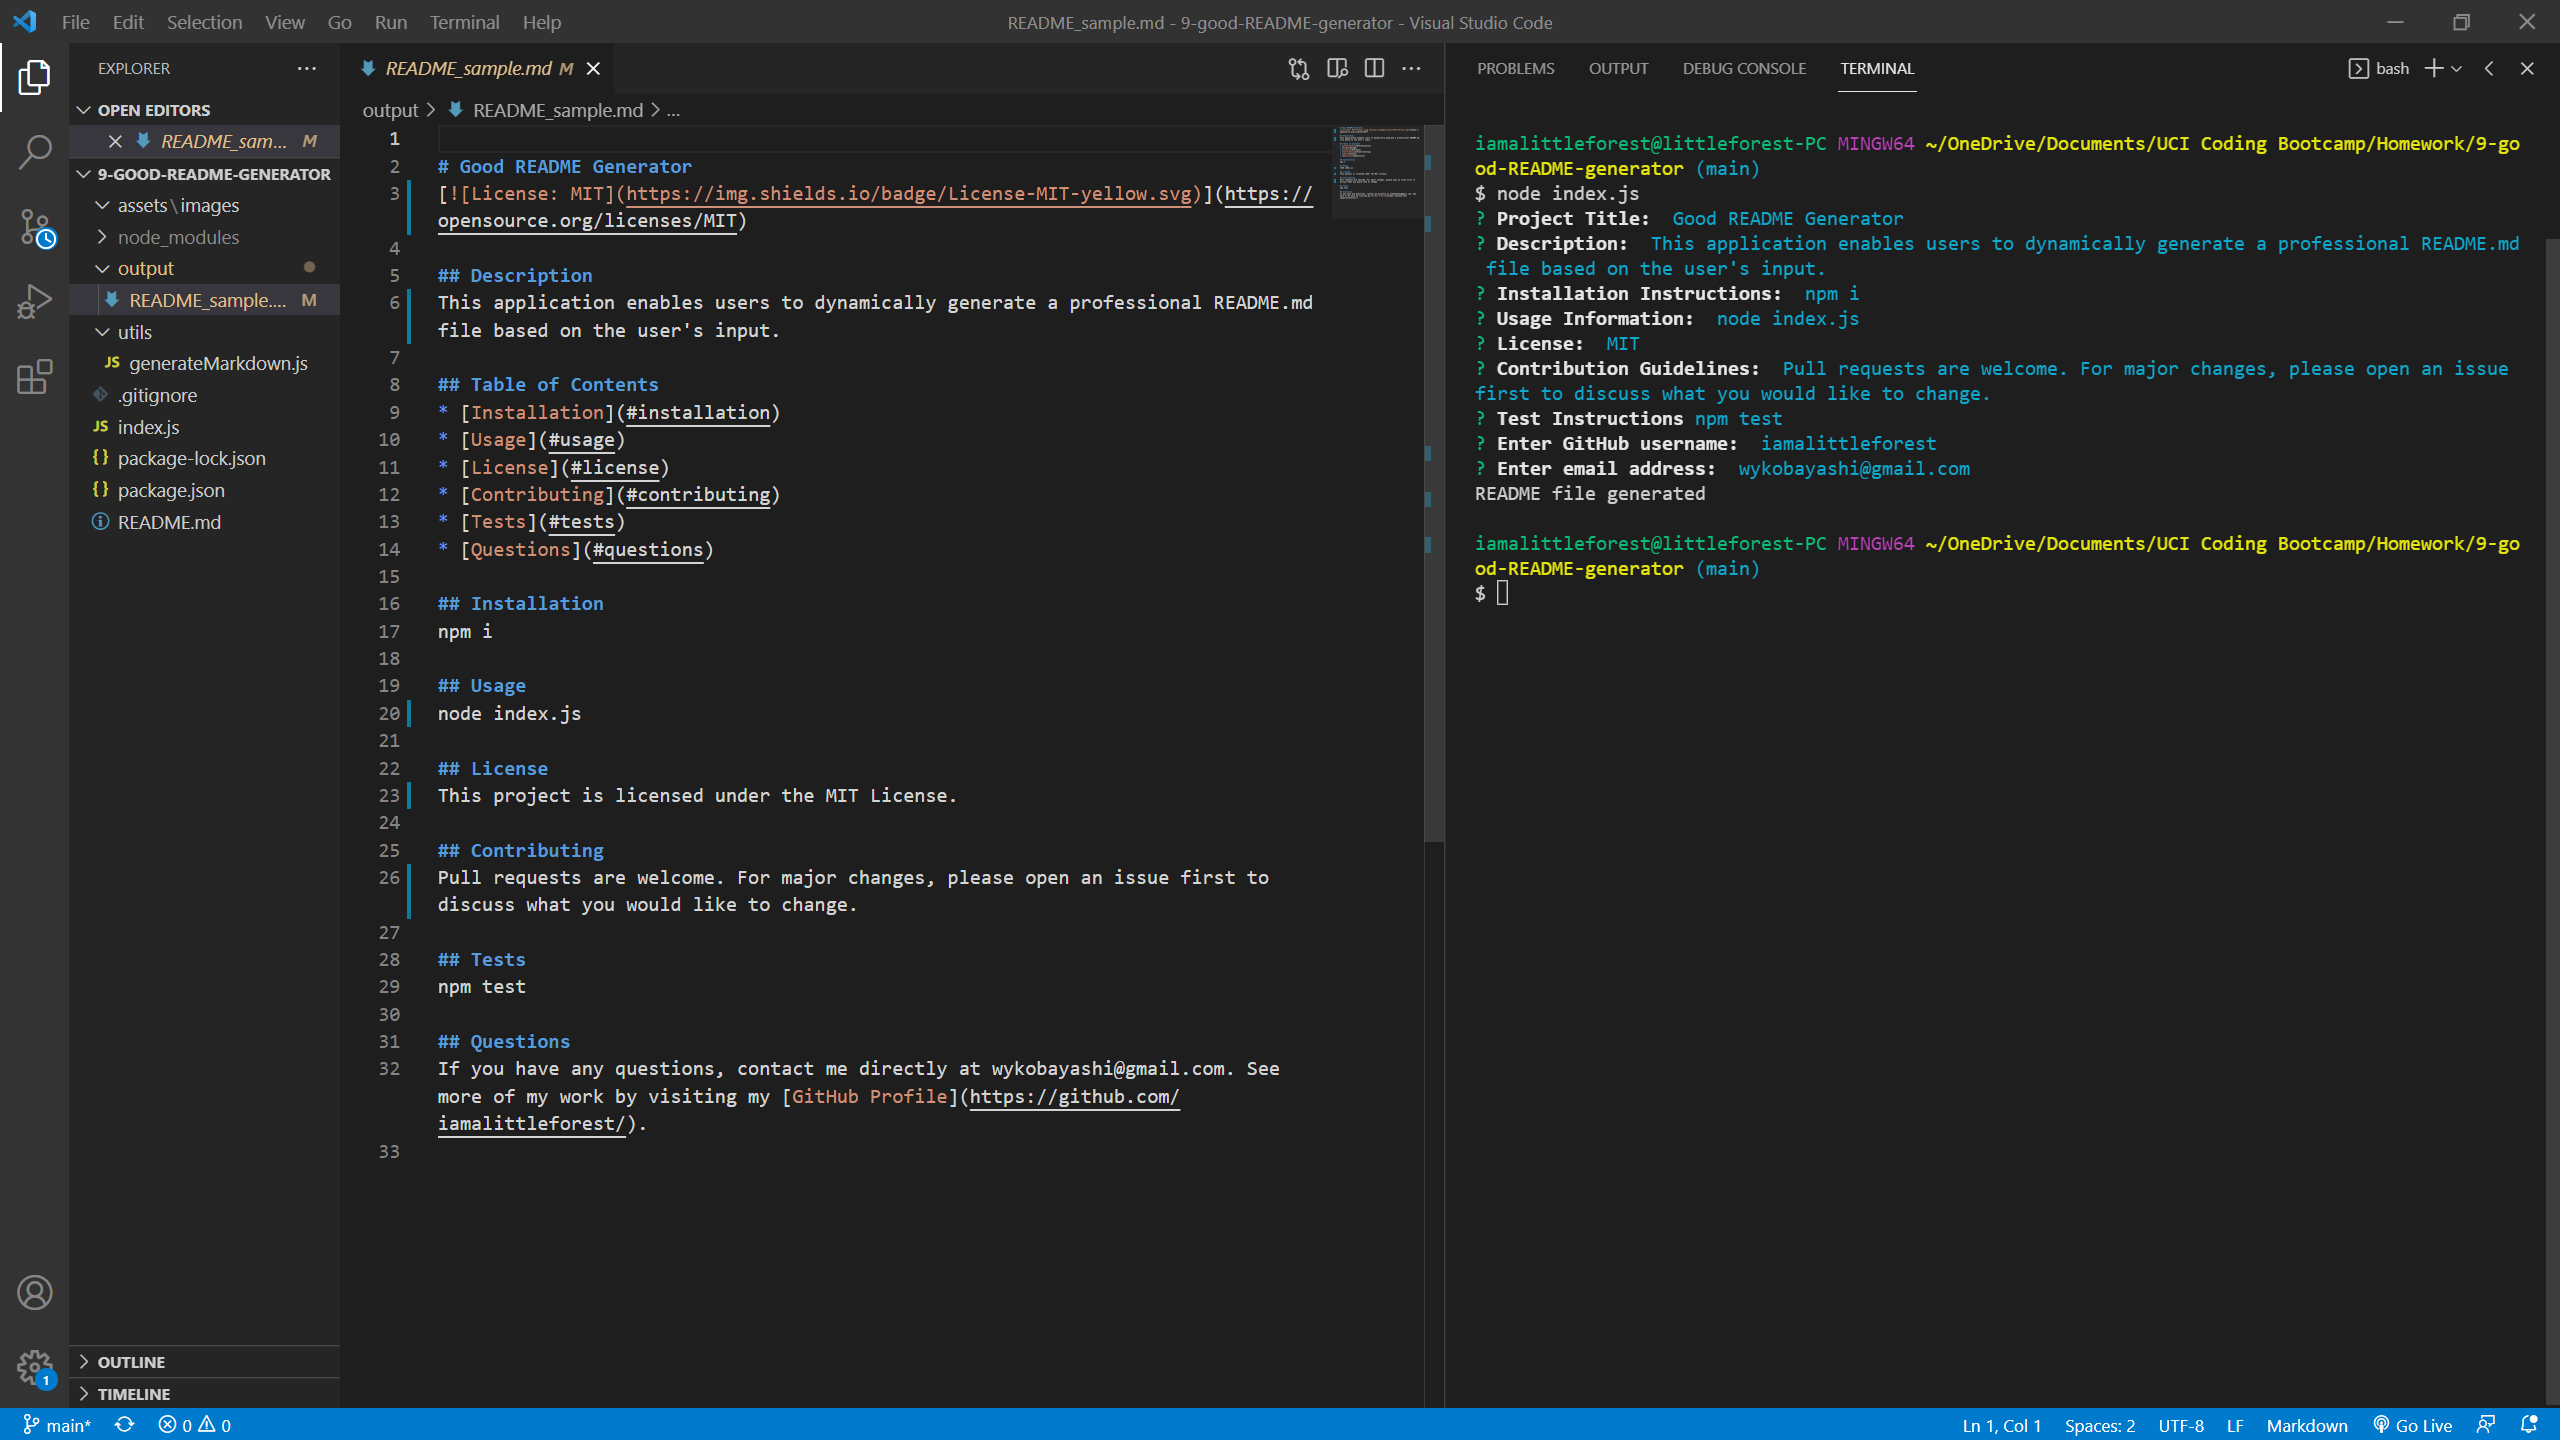
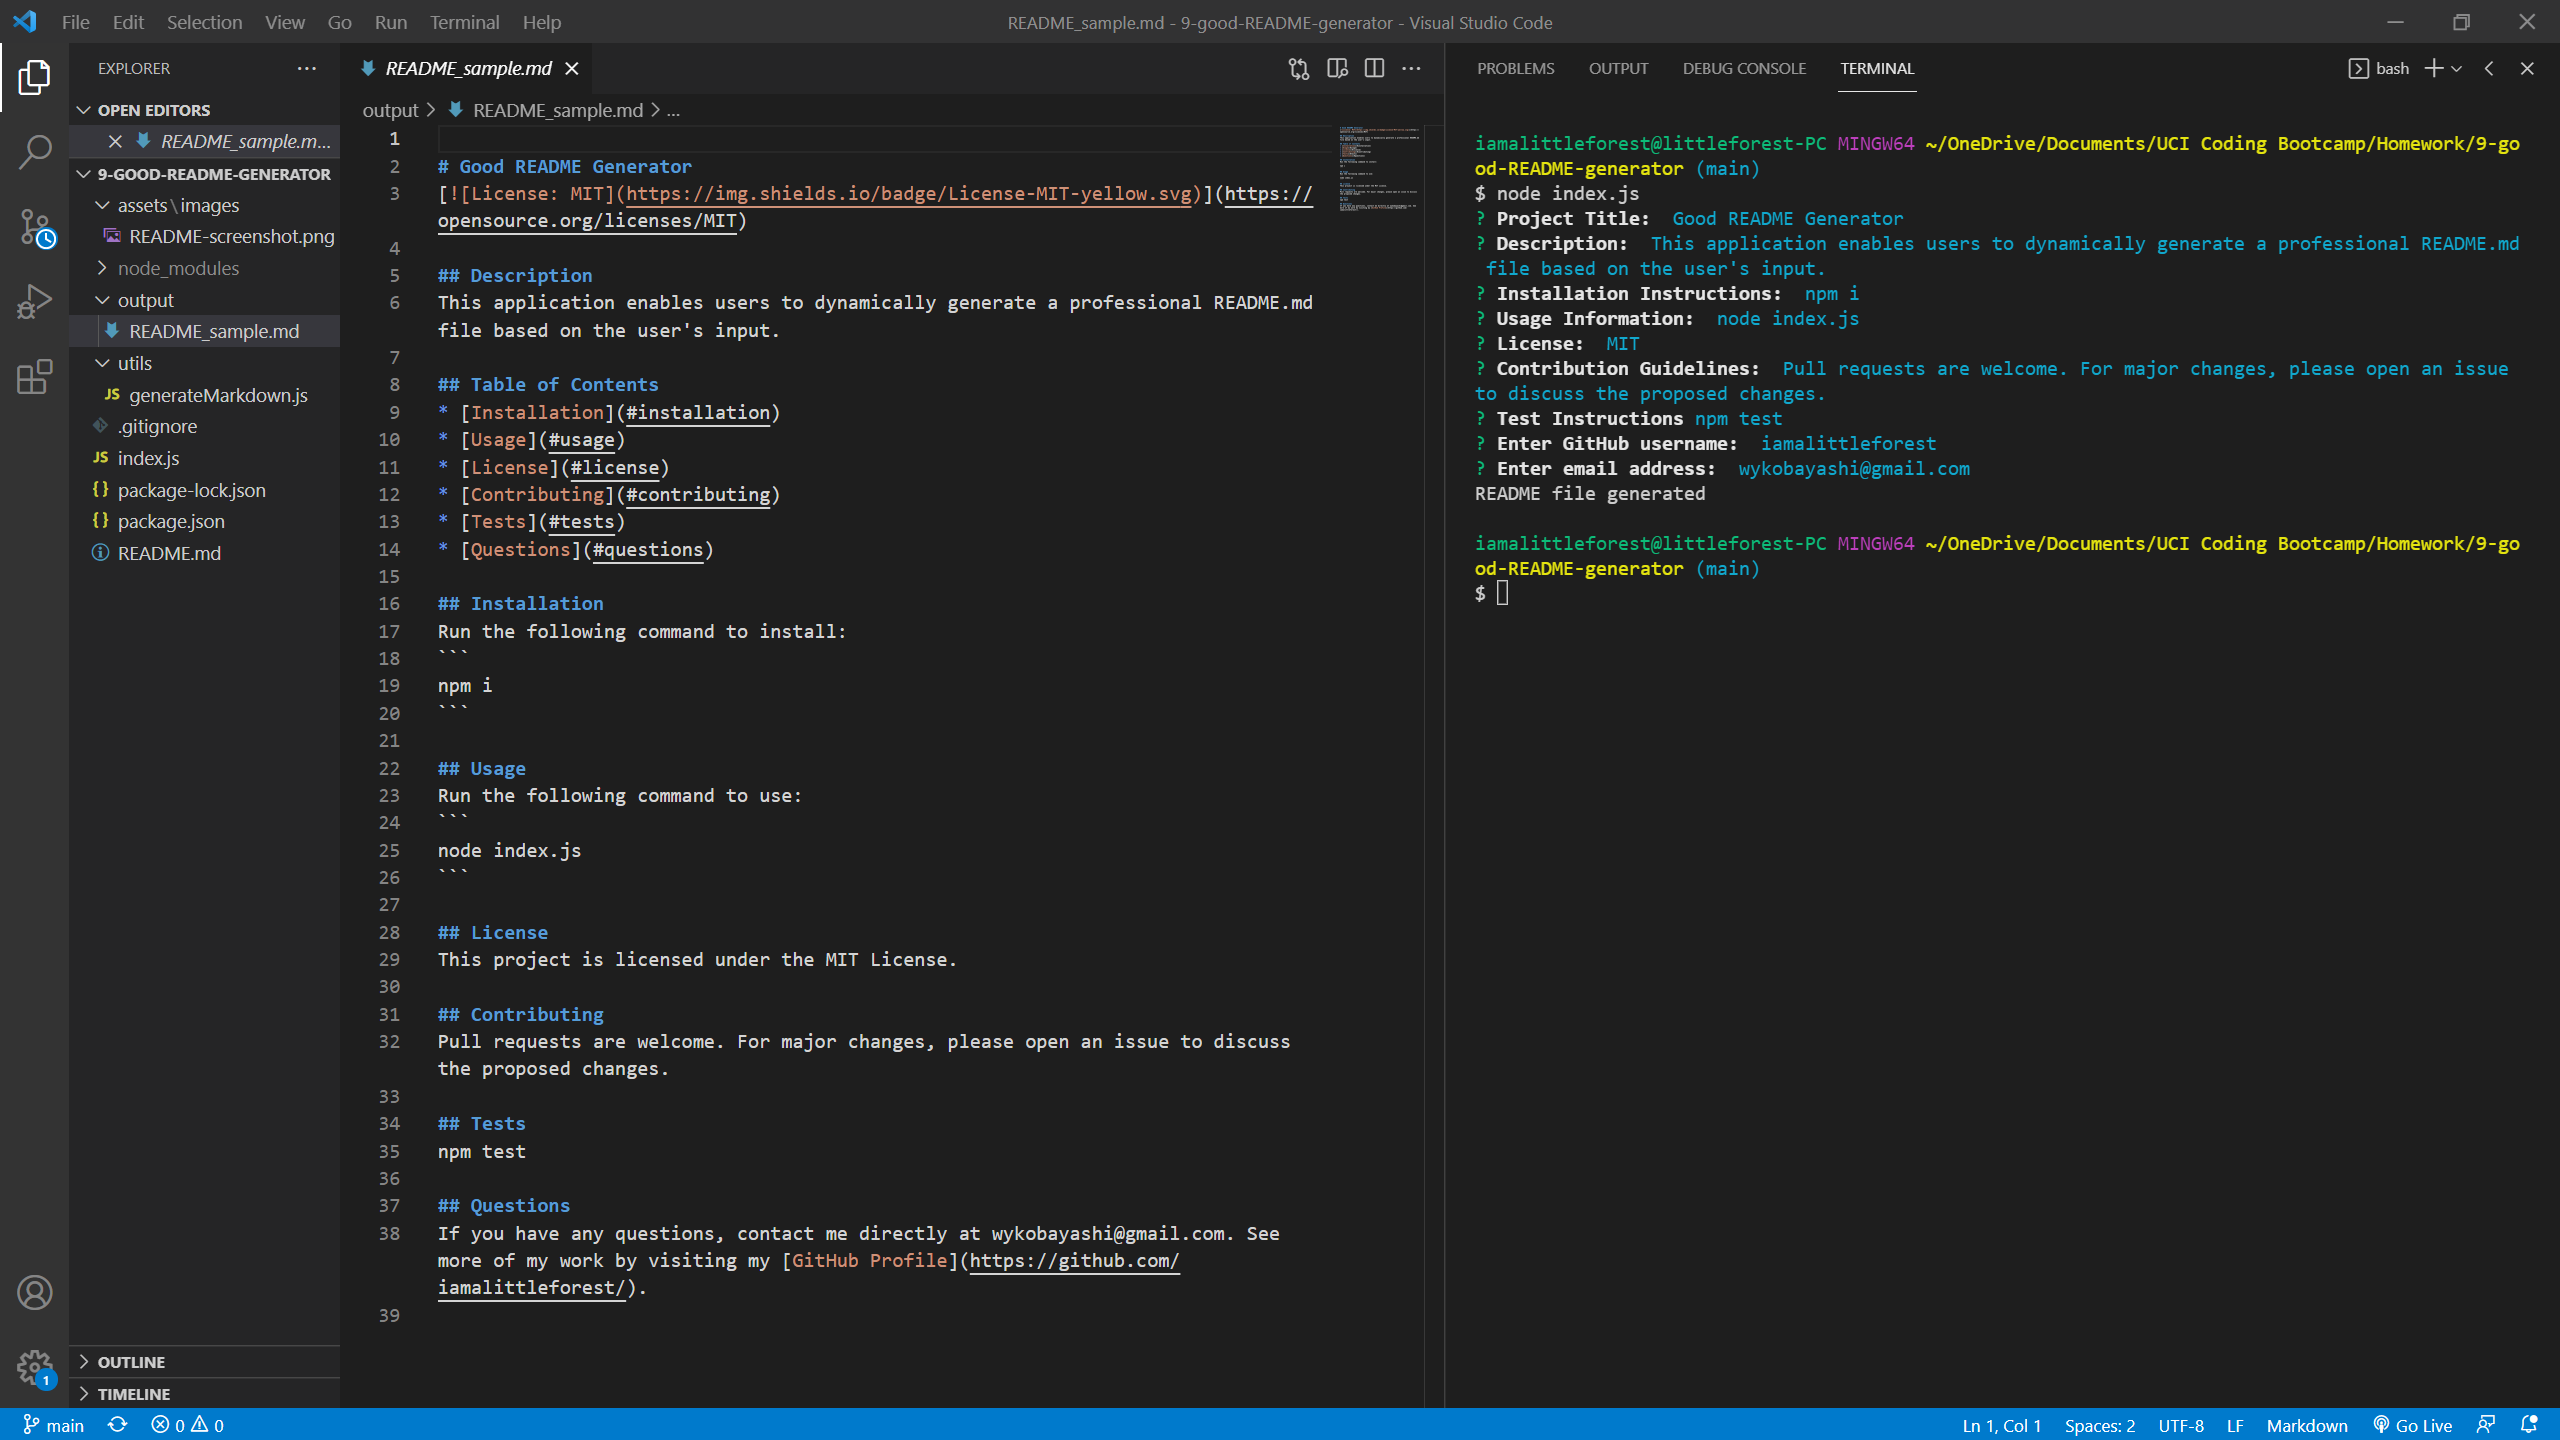
updated formatting of test section of README sample

diff --git a/utils/generateMarkdown.js b/utils/generateMarkdown.js
@@ -42,7 +42,10 @@ This project is licensed under the ${data.license} License.
 ${data.contributing}
 
 ## Tests
+Run the following command to test:
+\`\`\`
 ${data.tests}
+\`\`\`
 
 ## Questions
 If you have any questions, contact me directly at ${data.email}. See more of my work by visiting my [GitHub Profile](https://github.com/${data.username}/).
